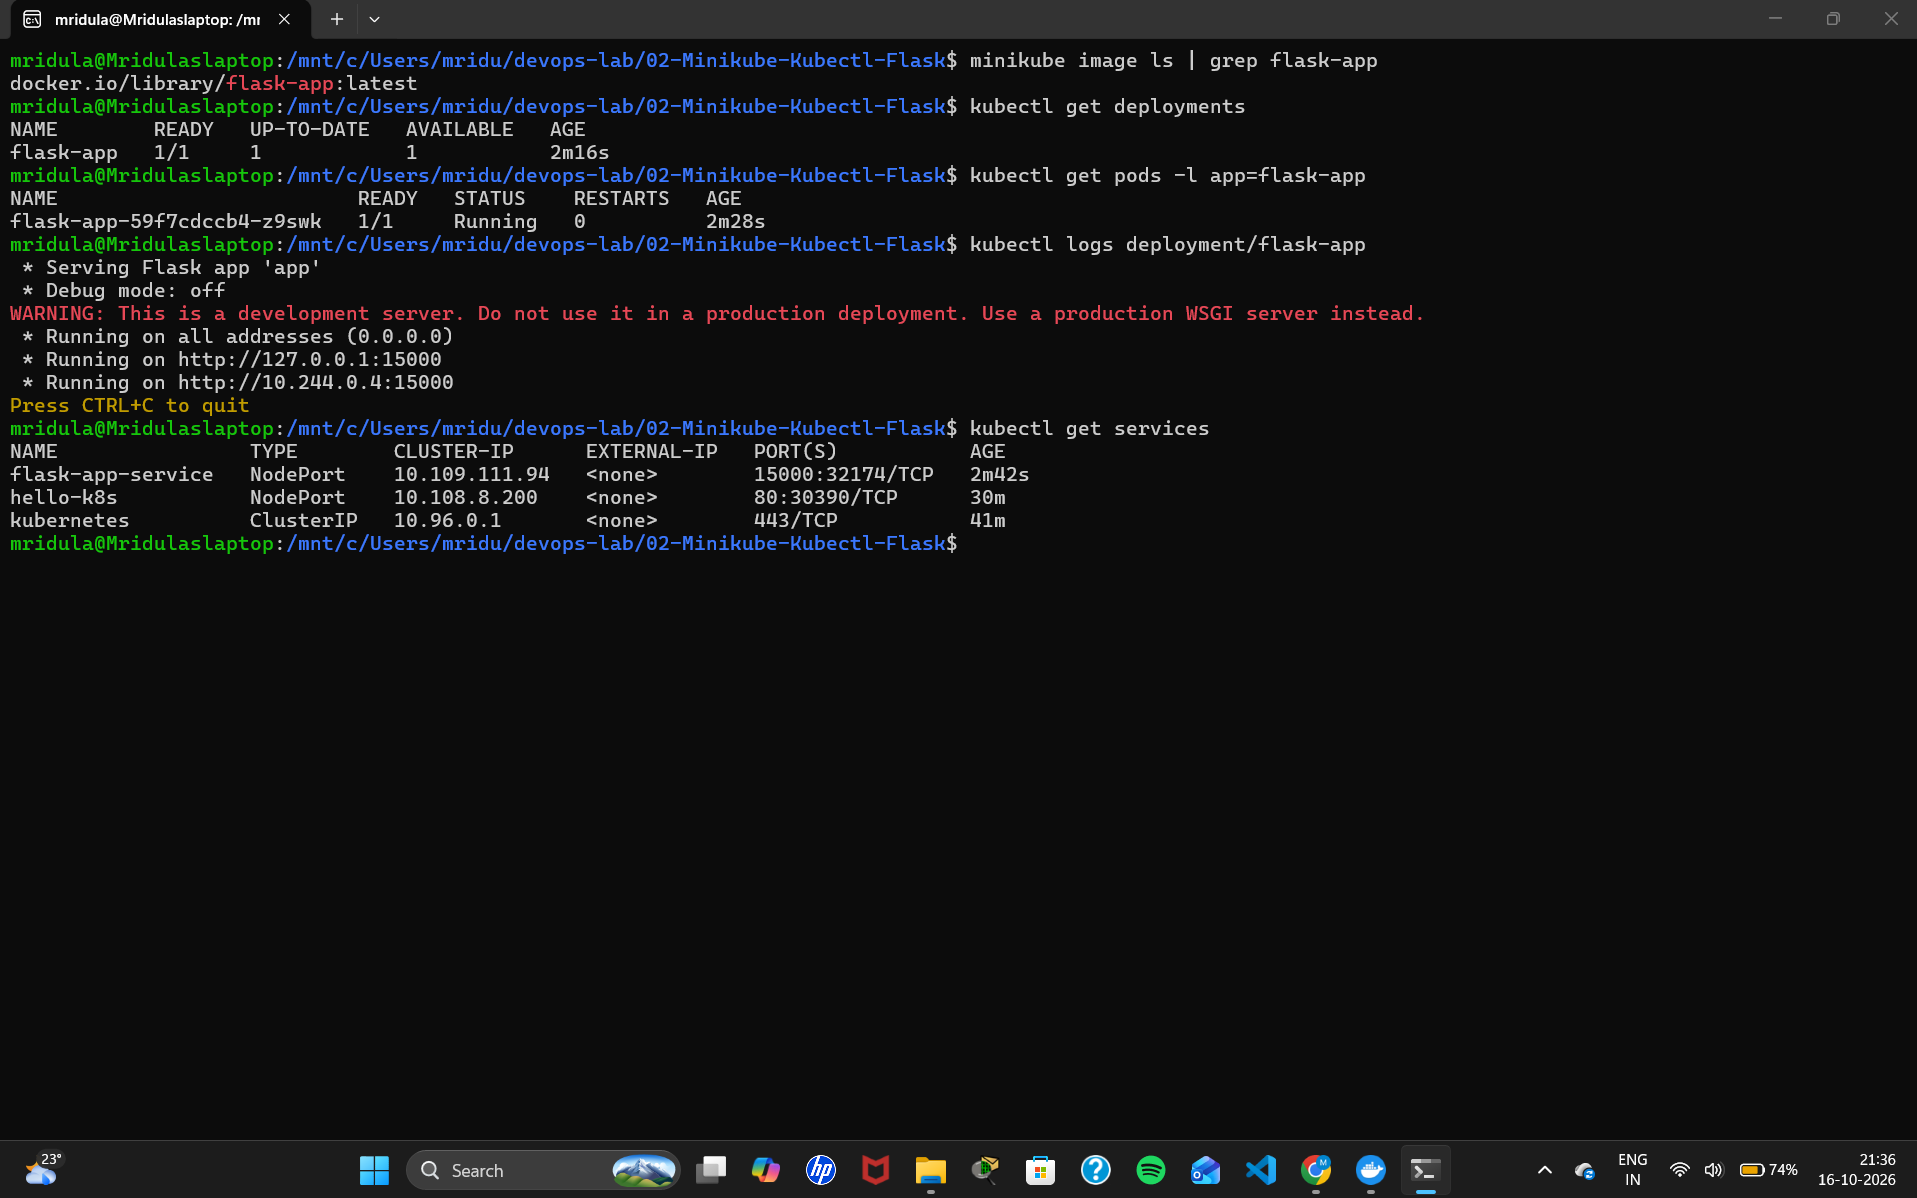
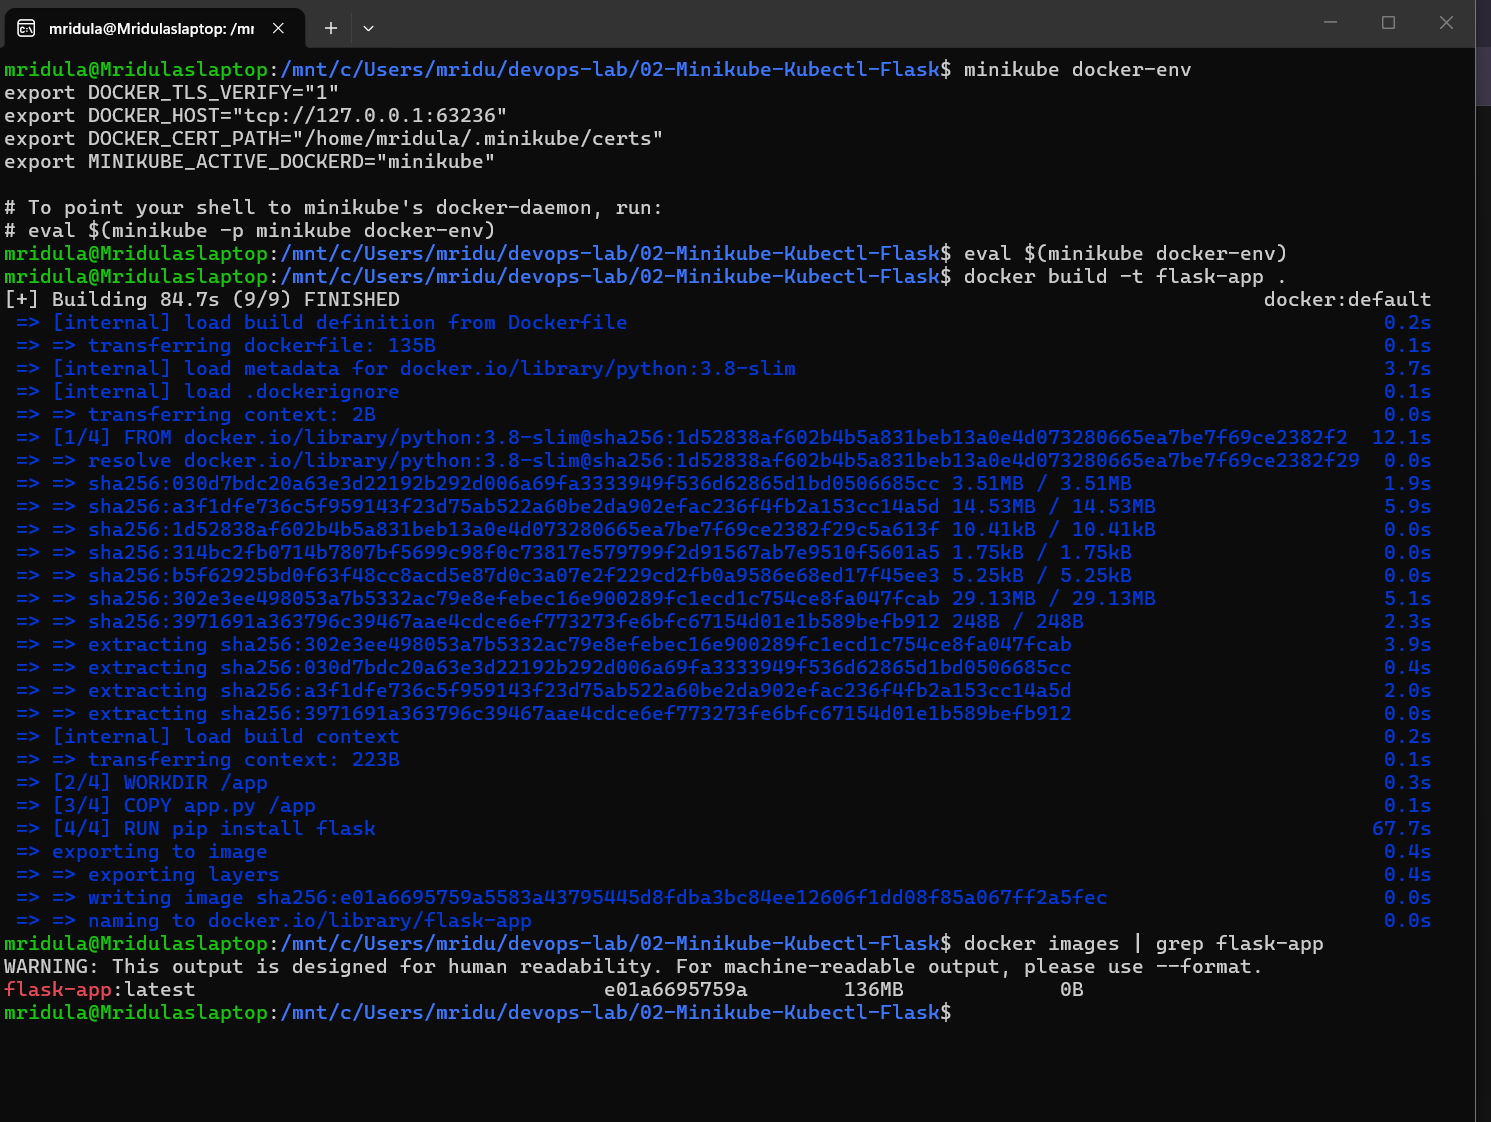
Exercise 2: redo exactly as per manual

diff --git a/02-Minikube-Kubectl-Flask/README.md b/02-Minikube-Kubectl-Flask/README.md
@@ -1,57 +1,95 @@
 # Exercise 2: Deploy a Flask App on Minikube using kubectl and YAML
 
 ## Objective
-Build a Python Flask application into a Docker image, deploy it on a single-node Minikube cluster using a Kubernetes Deployment YAML, and expose it using a NodePort Service.
+Learn Kubernetes basics using Minikube: set up a single-node cluster and deploy a Python Flask application using kubectl and a YAML file.
 
 ## Files
 | File | Purpose |
 |------|---------|
 | `app.py` | Flask app that returns "Hello from Flask on Kubernetes!" on port 15000 |
-| `Dockerfile` | Builds the Flask app into a Docker image |
-| `flask-deployment.yaml` | Kubernetes Deployment (1 replica) + NodePort Service on port 15000 |
+| `Dockerfile` | Builds the Flask app image |
+| `flask-deployment.yaml` | Deployment (1 replica, `imagePullPolicy: Never`) + NodePort Service (port 15000 → targetPort 15000) |
 
-## Steps and Commands
+## Steps
 
-### 1. Start Minikube
-```bash
-minikube start --driver=docker
-```
+### Step 1: Start Minikube
+~~~bash
+minikube start --driver=docker --container-runtime=docker
+~~~
 
-### 2. Build the Docker image inside Minikube
-```bash
-minikube image build -t flask-app:latest .
-```
-> Note: Minikube here uses the containerd runtime, so `minikube image build` is used instead of `eval $(minikube docker-env)` + `docker build`. The result is the same: the image is available inside the cluster.
+### Steps 2-3: Create app.py and Dockerfile
 
-### 3. Deploy the app
-```bash
+### Step 4: Build the image with Minikube's Docker daemon
+~~~bash
+minikube docker-env
+eval $(minikube docker-env)
+docker build -t flask-app .
+docker images | grep flask-app
+~~~
+
+### Steps 5-8: Create the Deployment (without Service), apply and verify
+~~~bash
 kubectl apply -f flask-deployment.yaml
-```
-
-### 4. Verify the deployment, pods, logs and service
-```bash
 kubectl get deployments
 kubectl get pods -l app=flask-app
-kubectl logs deployment/flask-app
-kubectl get services
-```
+~~~
 
-### 5. Access the app
-```bash
-minikube service flask-app-service --url
-```
-Open the printed URL in a browser.
+### Step 9: Describe the deployment
+~~~bash
+kubectl describe deployment flask-app
+~~~
+
+### Step 10: View the logs
+~~~bash
+kubectl logs deployment/flask-app
+~~~
+
+### Steps 11-12: Check services and try to access the app
+~~~bash
+kubectl get services
+curl http://127.0.0.1:15000
+~~~
+curl fails because Minikube runs in a separate environment: the app's port 15000 is exposed inside the cluster but not outside.
+
+### Step 13: Add a Service section to the YAML and access the app
+~~~bash
+kubectl apply -f flask-deployment.yaml      # deployment unchanged, service created
+minikube service flask-app-service --url    # keep this terminal open
+curl http://127.0.0.1:<port>                # in a new terminal
+~~~
+Flow: External request → Service (port 15000) → Container (targetPort 15000) → Flask app.
 
 ## Output Screenshots
 
-### Image, Deployment, Pod, Logs and Service
-![Kubectl Outputs](screenshots/1.png)
+### Step 4: minikube docker-env and docker build
+![Docker Build](screenshots/1.png)
 
-### Flask app running in browser
-![Flask App in Browser](screenshots/2.png)
+### Steps 6-8: Deployment and Pod running
+![Deployment and Pod](screenshots/2.png)
 
-## Learnings
-- `imagePullPolicy: Never` makes Kubernetes use the locally built image instead of pulling from Docker Hub.
-- **port** is the port exposed by the Service; **targetPort** is the port the container listens on.
-- Flow: Browser → Service (15000) → Container (15000) → Flask app.
-- `minikube service <name> --url` gives a reachable URL because Minikube runs inside Docker and is not directly reachable otherwise.
+### Step 9: Describe deployment
+![Describe](screenshots/3.png)
+
+### Step 10: Logs
+![Logs](screenshots/4.png)
+
+### Steps 11-12: Only kubernetes service, curl fails
+![Curl Fails](screenshots/5.png)
+
+### Step 13: Service created and URL
+![Service URL](screenshots/6.png)
+
+### Step 13: curl succeeds
+![Curl Success](screenshots/7.png)
+
+## Q&A
+1. **Purpose of `minikube service flask-app-service --url`?** To provide the URL for accessing the service running in Minikube.
+2. **What happens when you run it?** Minikube checks the service is running, generates a URL and displays it.
+3. **Why is targetPort used?** To specify the port the container is listening on.
+4. **port vs targetPort?** `port` is the exposed Service port; `targetPort` is the container port.
+5. **How do you access a Flask app in Minikube?** `minikube service <service-name> --url`.
+6. **Why must the terminal stay open with the Docker driver?** The Docker driver needs the terminal open to keep the tunnel to Minikube running.
+7. **Benefit of `--url`?** It gives the access URL without building it manually.
+8. **Command to expose a service?** `kubectl expose` or `kubectl apply -f <service.yaml>`.
+9. **How does Minikube help?** It runs a single-node Kubernetes cluster locally for testing.
+10. **Role of kubectl?** The Kubernetes CLI used to deploy, scale and manage resources in the cluster.
